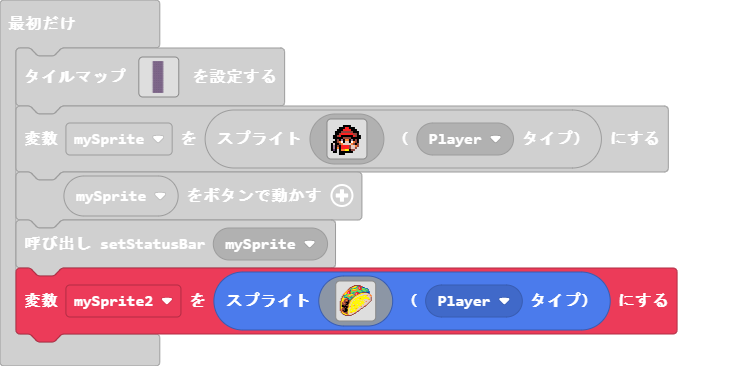
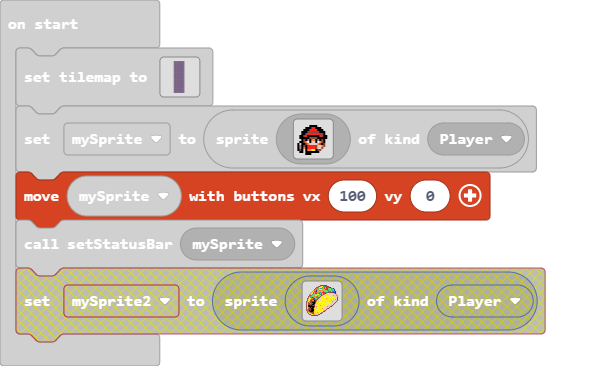
Update main.blocks, main.ts, images.g.jres, images.g.ts, tilemap.g.ts

diff --git a/images.g.ts b/images.g.ts
@@ -1,4 +1,4 @@
-// 自動生成されたコードです。変更しないでください。
+// Auto-generated code. Do not edit.
 namespace myImages {
 
     helpers._registerFactory("image", function(name: string) {
@@ -55,6 +55,40 @@ e4efefff5d5d55555d4e............
 .....eeeeeee....................
 ................................
 `;
+            case "image3":return img`
+..............eeeeeee...........
+............ee455662e2e.........
+..........ee45556723e2688.......
+.........e46776677232e777668....
+........e46745554772227776778...
+.......4448744444777766777678...
+......4522e7777776777766676668..
+.....4523227766722e666eeeee888..
+....455232e76672322e4555dddd48..
+...44567777554623e455ddddddddd4.
+...e66774554477e455dddd55554dd44
+..e46777444677e55dd55555d55dddd4
+..e5668677666e5dd555555555555dde
+.e45544e8776e5d555554555555555de
+.e554eeee66e5d5555d55555dddd54de
+.e55ee44fee5d5d555555d5d5dddddde
+e454eeeefe45d55555555555dd4ddde.
+e5e4eefffe5d55555555d5555dddde..
+e5ee4eeff45d555555555555dddde...
+e5eeeeffe5d55d555d5555d5ddde....
+e5ffefeee5d55545555555ddd4e.....
+e5ffffffe545555555d5d4ddee......
+e54efeff45d55d55555dddde........
+e5eeeffe5dd5555545dddee.........
+e4eeefff5d5555d55ddde...........
+e4efefff5d5d55555d4e............
+.e4efffe5d555555dee.............
+.e54eeee5d545dd4e...............
+..e554ee5dddddee................
+...ee5544dddee..................
+.....eeeeeee....................
+................................
+`;
         }
         return null;
     })
@@ -67,4 +101,4 @@ e4efefff5d5d55555d4e............
     })
 
 }
-// 自動生成されたコードです。変更しないでください。
+// Auto-generated code. Do not edit.

diff --git a/main.ts b/main.ts
@@ -23,39 +23,5 @@ let mySprite = sprites.create(img`
     . f f . f f f f f f f . . . . . 
     . . . . f f f . . . . . . . . . 
     `, SpriteKind.Player)
-controller.moveSprite(mySprite)
+controller.moveSprite(mySprite, 100, 0)
 setStatusBar(mySprite)
-let mySprite2 = sprites.create(img`
-    ..............eeeeeee...........
-    ............ee455662e2e.........
-    ..........ee45556723e2688.......
-    .........e46776677232e777668....
-    ........e46745554772227776778...
-    .......4448744444777766777678...
-    ......4522e7777776777766676668..
-    .....4523227766722e666eeeee888..
-    ....455232e76672322e4555dddd48..
-    ...44567777554623e455ddddddddd4.
-    ...e66774554477e455dddd55554dd44
-    ..e46777444677e55dd55555d55dddd4
-    ..e5668677666e5dd555555555555dde
-    .e45544e8776e5d555554555555555de
-    .e554eeee66e5d5555d55555dddd54de
-    .e55ee44fee5d5d555555d5d5dddddde
-    e454eeeefe45d55555555555dd4ddde.
-    e5e4eefffe5d55555555d5555dddde..
-    e5ee4eeff45d555555555555dddde...
-    e5eeeeffe5d55d555d5555d5ddde....
-    e5ffefeee5d55545555555ddd4e.....
-    e5ffffffe545555555d5d4ddee......
-    e54efeff45d55d55555dddde........
-    e5eeeffe5dd5555545dddee.........
-    e4eeefff5d5555d55ddde...........
-    e4efefff5d5d55555d4e............
-    .e4efffe5d555555dee.............
-    .e54eeee5d545dd4e...............
-    ..e554ee5dddddee................
-    ...ee5544dddee..................
-    .....eeeeeee....................
-    ................................
-    `, SpriteKind.Player)

diff --git a/tilemap.g.ts b/tilemap.g.ts
@@ -1,4 +1,4 @@
-// 自動生成されたコードです。変更しないでください。
+// Auto-generated code. Do not edit.
 namespace myTiles {
     //% fixedInstance jres blockIdentity=images._tile
     export const transparency16 = image.ofBuffer(hex``);
@@ -70,4 +70,4 @@ namespace myTiles {
     })
 
 }
-// 自動生成されたコードです。変更しないでください。
+// Auto-generated code. Do not edit.
